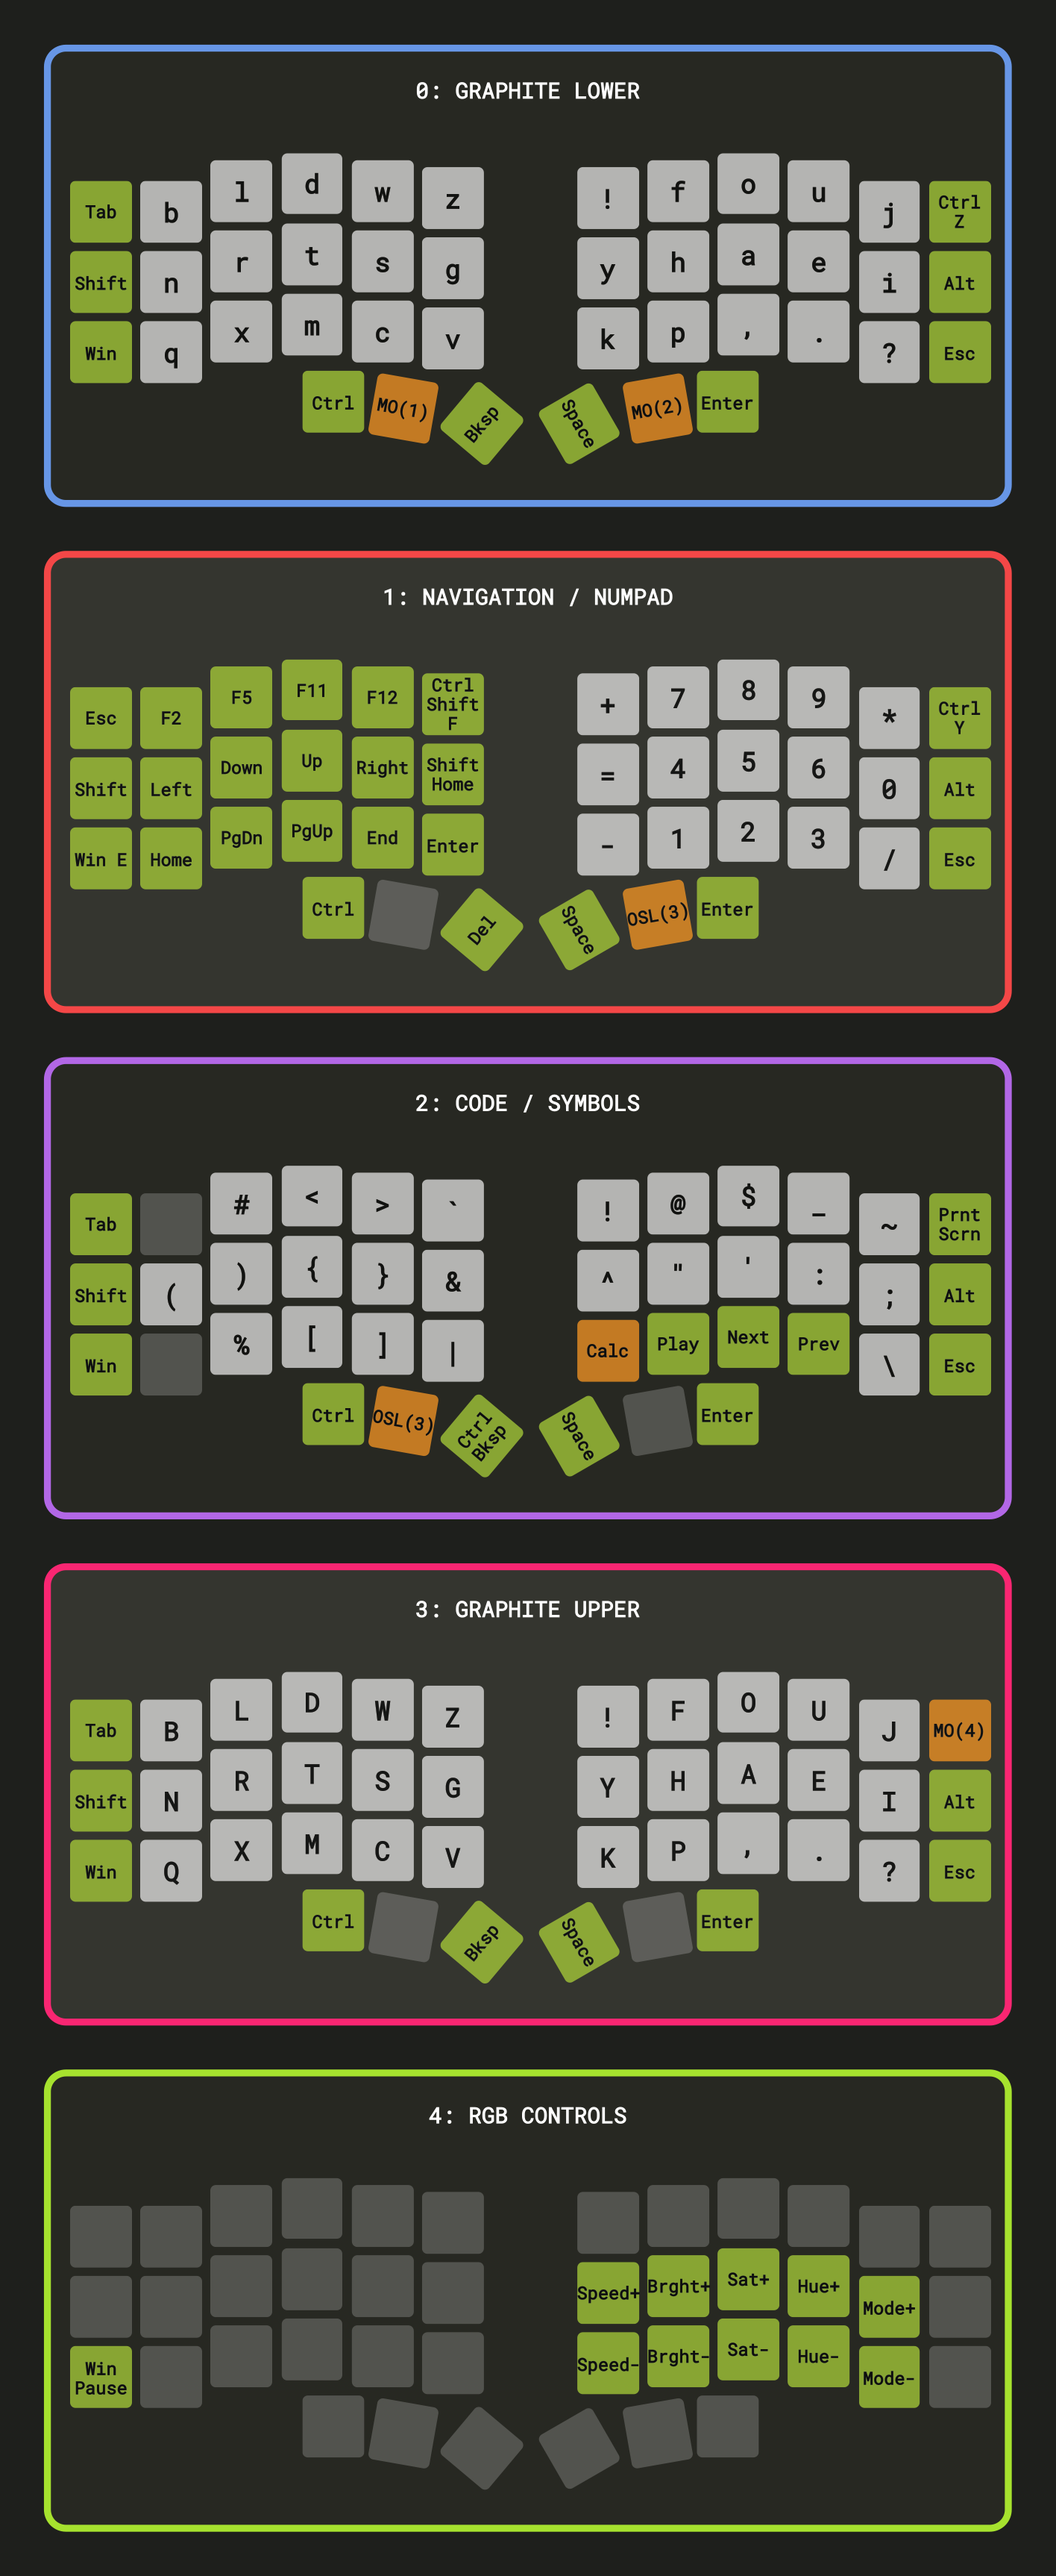
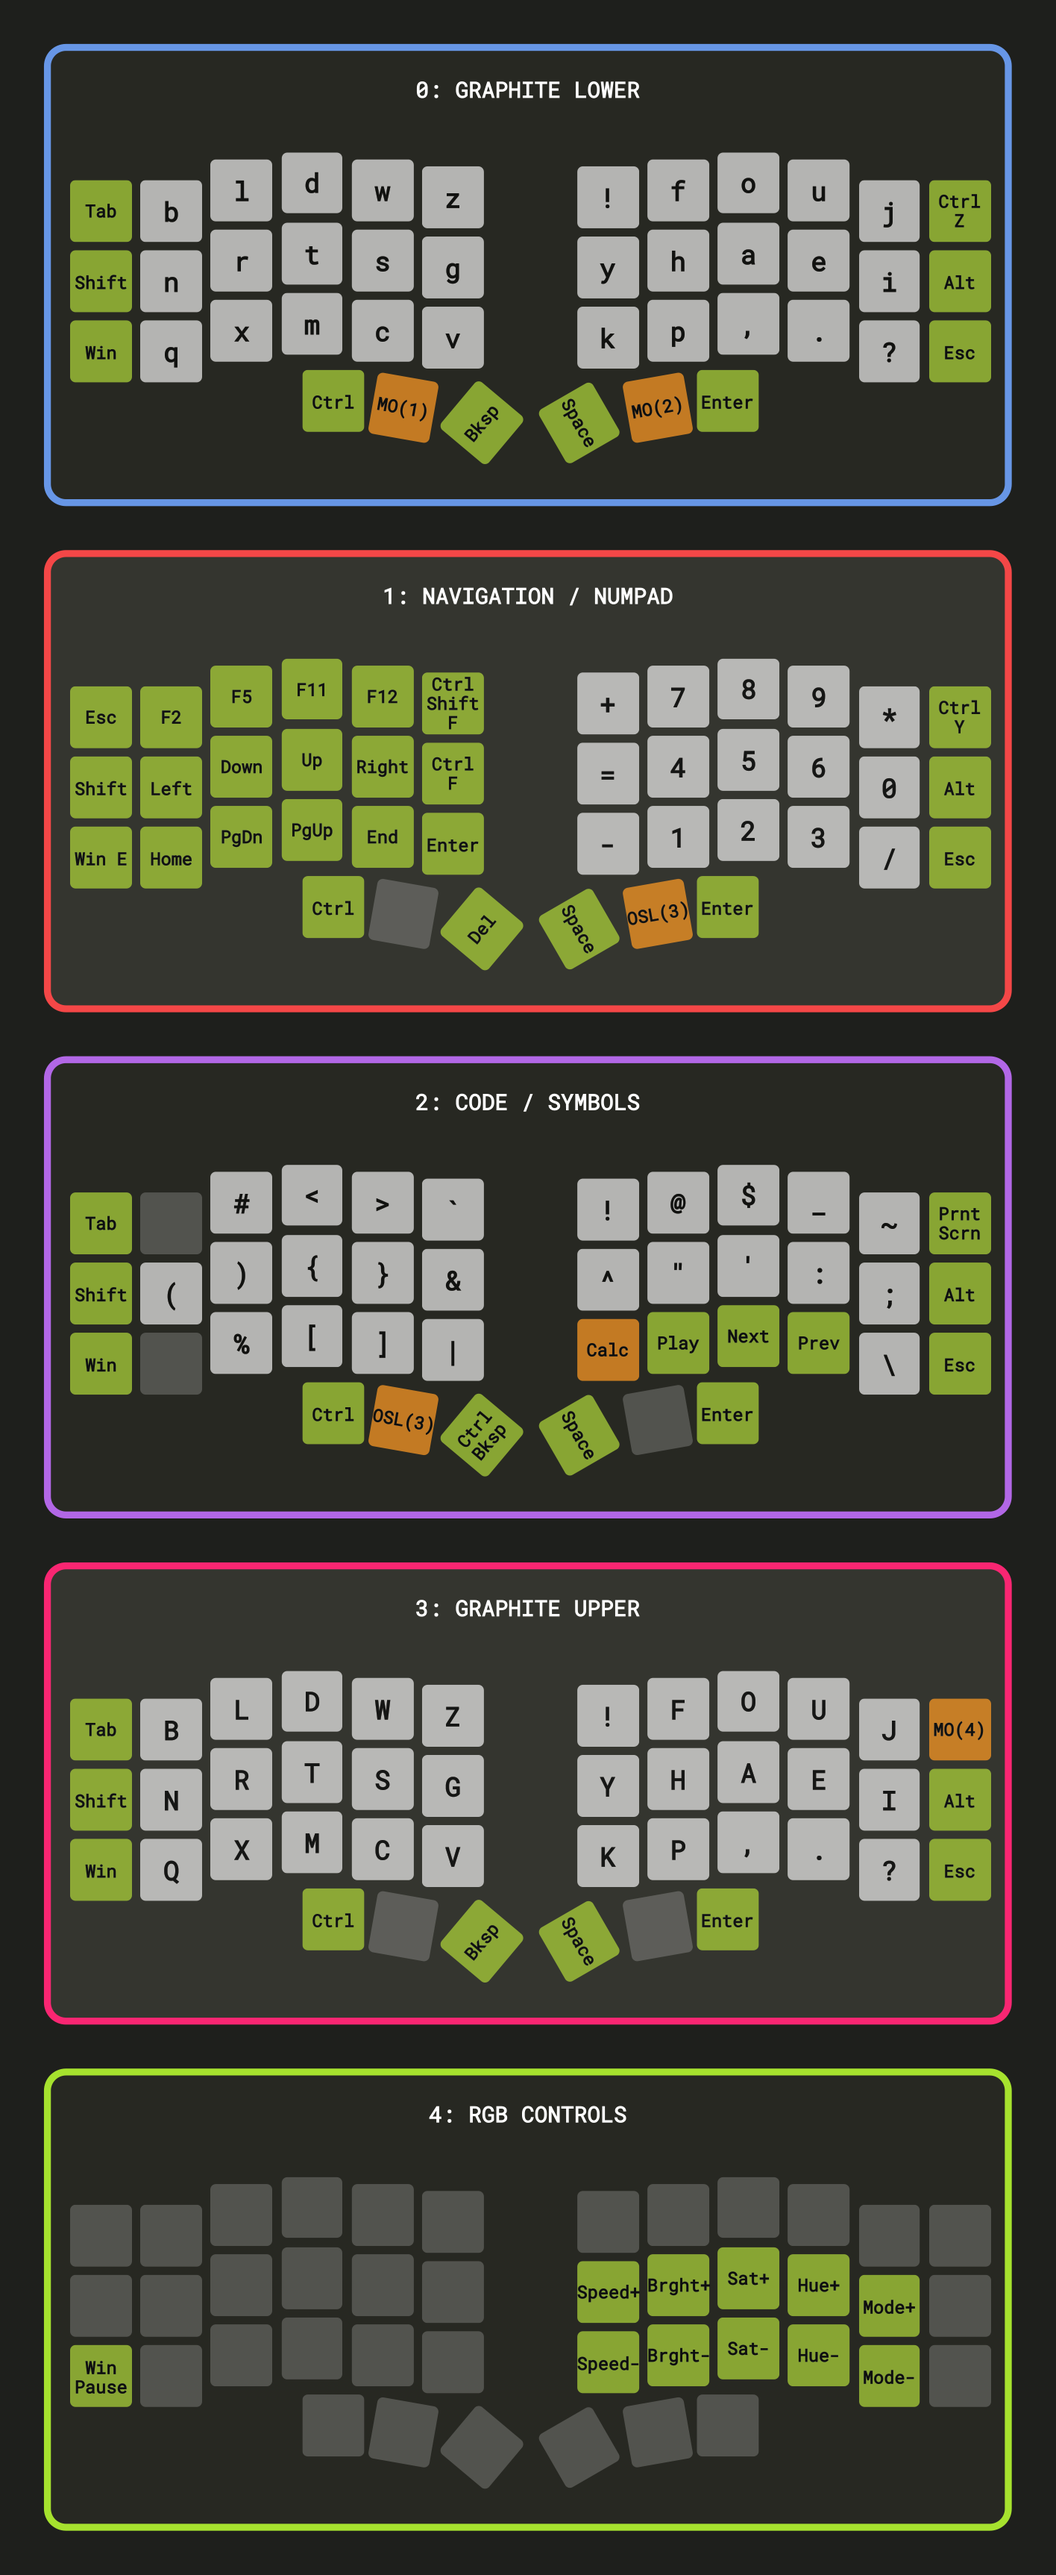
Change Shift+Home key to Ctrl+F for faster find

Changed region(s): [[0.404, 0.279, 0.4661, 0.3101]]

diff --git a/README.md b/README.md
@@ -20,7 +20,7 @@ When using a split keyboard, it is important that all of the navigation keys are
 
 <font color="#A6E22E">**Ctrl-Shift-F**</font> is used to bring up the Search In All Files bar in VS Code.
 
-<font color="#A6E22E">**Shift-Home**</font> is used to select text from the current cursor position to the start of the line.
+<font color="#A6E22E">**Ctrl-F**</font> is used for a faster find with my left hand.
 
 <font color="#A6E22E">**Win-E**</font> opens a Windows File Explorer window.
 
